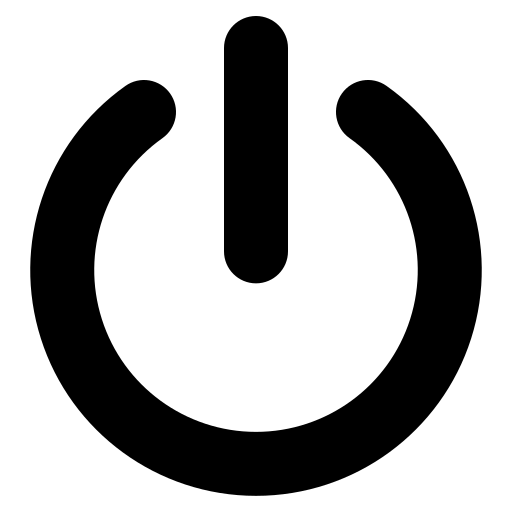
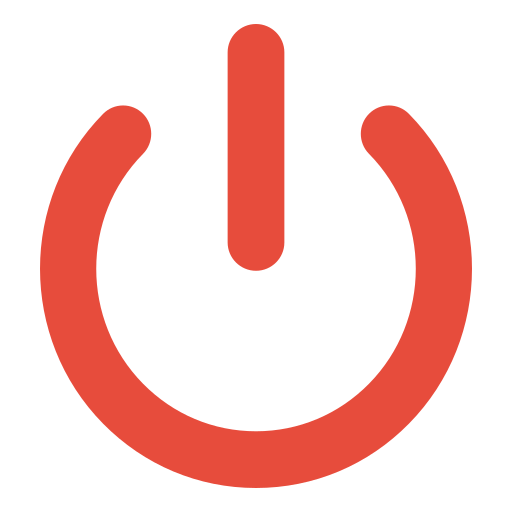
fix: polish gui header and idle resume

diff --git a/src/macgyvbot_ui/macgyvbot_ui/voice_command_window.py b/src/macgyvbot_ui/macgyvbot_ui/voice_command_window.py
@@ -141,27 +141,17 @@ else:
             input_layout.addWidget(self._input)
             input_layout.addWidget(self._send_button)
 
-            header_center = QWidget()
-            header_center_layout = QVBoxLayout()
-            header_center_layout.setContentsMargins(0, 0, 0, 0)
-            header_center_layout.setSpacing(2)
-            header_center.setLayout(header_center_layout)
-            header_center_layout.addWidget(self._avatar)
-            header_center_layout.addWidget(self._title)
-            header_center_layout.addWidget(self._subtitle)
-            header_center_layout.setAlignment(self._avatar, Qt.AlignHCenter)
-            header_center_layout.setAlignment(self._title, Qt.AlignHCenter)
-            header_center_layout.setAlignment(self._subtitle, Qt.AlignHCenter)
-
-            header_layout = QGridLayout()
+            header_layout = QHBoxLayout()
             header_layout.setContentsMargins(0, 14, 0, 10)
-            header_layout.setHorizontalSpacing(0)
-            header_layout.setVerticalSpacing(0)
-            header_layout.addWidget(header_center, 0, 1, Qt.AlignHCenter)
-            header_layout.addWidget(self._power_button, 0, 2, Qt.AlignRight | Qt.AlignTop)
-            header_layout.setColumnStretch(0, 1)
-            header_layout.setColumnStretch(1, 0)
-            header_layout.setColumnStretch(2, 1)
+            header_layout.setSpacing(10)
+            header_layout.addStretch(1)
+            header_layout.addWidget(self._avatar, 0, Qt.AlignRight | Qt.AlignVCenter)
+            header_layout.addWidget(self._title, 0, Qt.AlignRight | Qt.AlignVCenter)
+            header_layout.addWidget(
+                self._power_button,
+                0,
+                Qt.AlignRight | Qt.AlignVCenter,
+            )
 
             status_title = QLabel('Robot Status')
             status_title.setObjectName('statusPanelTitle')
@@ -1162,17 +1152,17 @@ else:
                     background-color: #F5F8FC;
                 }
                 QPushButton#powerButton {
-                    background-color: #E5484D;
-                    color: #FFFFFF;
-                    border: 1px solid #C9363D;
+                    background-color: #FFFFFF;
+                    color: #E5484D;
+                    border: 1px solid #F1C8C8;
                     border-radius: 19px;
                     padding: 0px;
                     font-size: 20px;
                     font-weight: 900;
                 }
                 QPushButton#powerButton:hover {
-                    background-color: #D93D43;
-                    border: 1px solid #B82F35;
+                    background-color: #FFF2F2;
+                    border: 1px solid #E9A6A6;
                 }
                 '''
             )

diff --git a/src/macgyvbot_task/test/test_task_coordinator_cancel_cleanup.py b/src/macgyvbot_task/test/test_task_coordinator_cancel_cleanup.py
@@ -250,6 +250,33 @@ def _make_cancel_node(TaskCoordinatorNode, *, active_step=False):
     return node
 
 
+def _make_resume_node(TaskCoordinatorNode):
+    node = object.__new__(TaskCoordinatorNode)
+    node.pause_req = threading.Event()
+    node.drop_req = threading.Event()
+    node.resume_req = threading.Event()
+    node._queue_lock = threading.RLock()
+    node._current_step = None
+    node._suspended_step = None
+    node._task_log = lambda *_args, **_kwargs: FakeLogger()
+    node._step_thread_alive = lambda: False
+    node._resume_suspended_step_locked = lambda: False
+
+    def _dispatch_next():
+        raise AssertionError("idle resume must not dispatch task queue")
+
+    node._dispatch_next = _dispatch_next
+    node.state = types.SimpleNamespace(
+        current_command=None,
+        recovery_mode=False,
+    )
+    node.published_statuses = []
+    node._publish_robot_status = (
+        lambda status, **kwargs: node.published_statuses.append((status, kwargs))
+    )
+    return node
+
+
 def test_cancel_cleans_paused_suspended_state_without_active_step(monkeypatch):
     _install_task_coordinator_import_stubs(monkeypatch)
     from macgyvbot_task.task_coordinator_node import TaskCoordinatorNode
@@ -285,3 +312,19 @@ def test_cancel_defers_cleanup_while_step_is_active(monkeypatch):
     assert node._suspended_task_name is None
     assert node.tool_hold_monitor.stop_reasons == []
     assert node.published_statuses[-1][0] == "cancelled"
+
+
+def test_resume_without_paused_task_returns_to_idle(monkeypatch):
+    _install_task_coordinator_import_stubs(monkeypatch)
+    from macgyvbot_task.task_coordinator_node import TaskCoordinatorNode
+
+    node = _make_resume_node(TaskCoordinatorNode)
+    node.resume_req.set()
+
+    assert node._handle_resume("재개") is False
+
+    assert not node.resume_req.is_set()
+    assert node.published_statuses[-1][0] == "rejected"
+    assert node.published_statuses[-1][1]["action"] == "resume"
+    assert node.published_statuses[-1][1]["reason"] == "resume_without_paused_task"
+    assert "재개할 작업이 없습니다" in node.published_statuses[-1][1]["message"]

diff --git a/src/macgyvbot_ui/test/test_gripper_panel_smoke.py b/src/macgyvbot_ui/test/test_gripper_panel_smoke.py
@@ -129,6 +129,9 @@ class GripperPanelSmokeTest(unittest.TestCase):
         self.assertEqual(self.published_texts, ["종료"])
         self.assertEqual(self.control_actions, [])
 
+    def test_power_button_uses_packaged_icon(self):
+        self.assertFalse(self.window._power_button.icon().isNull())
+
     def test_gripper_width_input_has_label(self):
         self.assertEqual(self.window._gripper_width_label.text(), "그리퍼 폭:")
 
